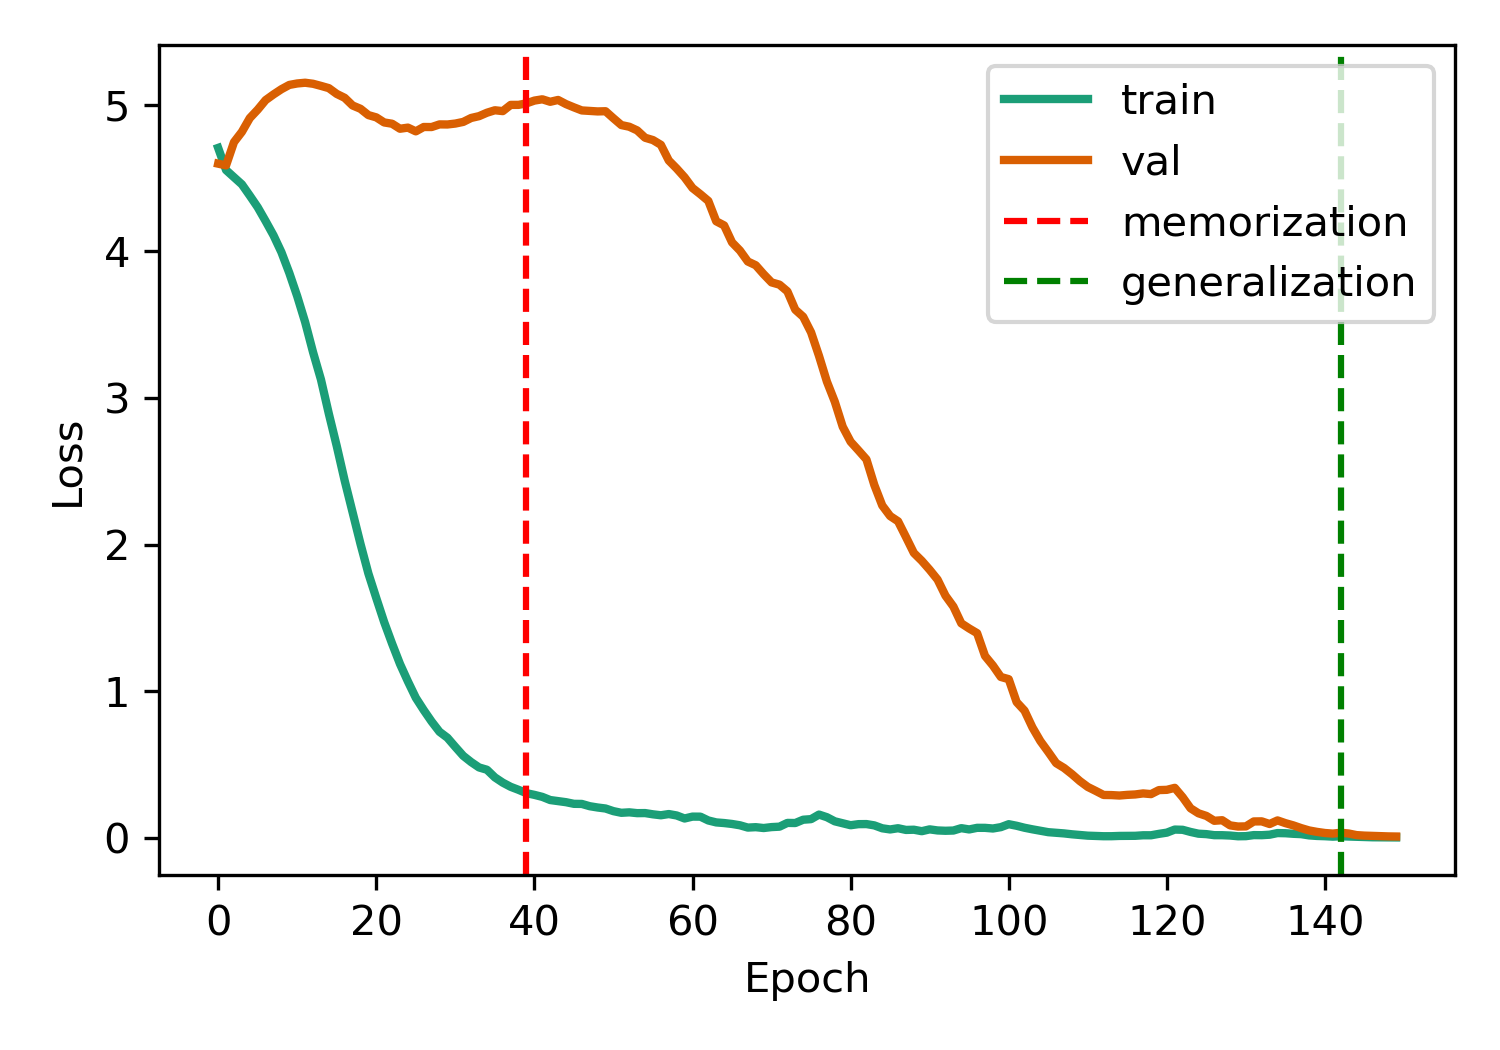
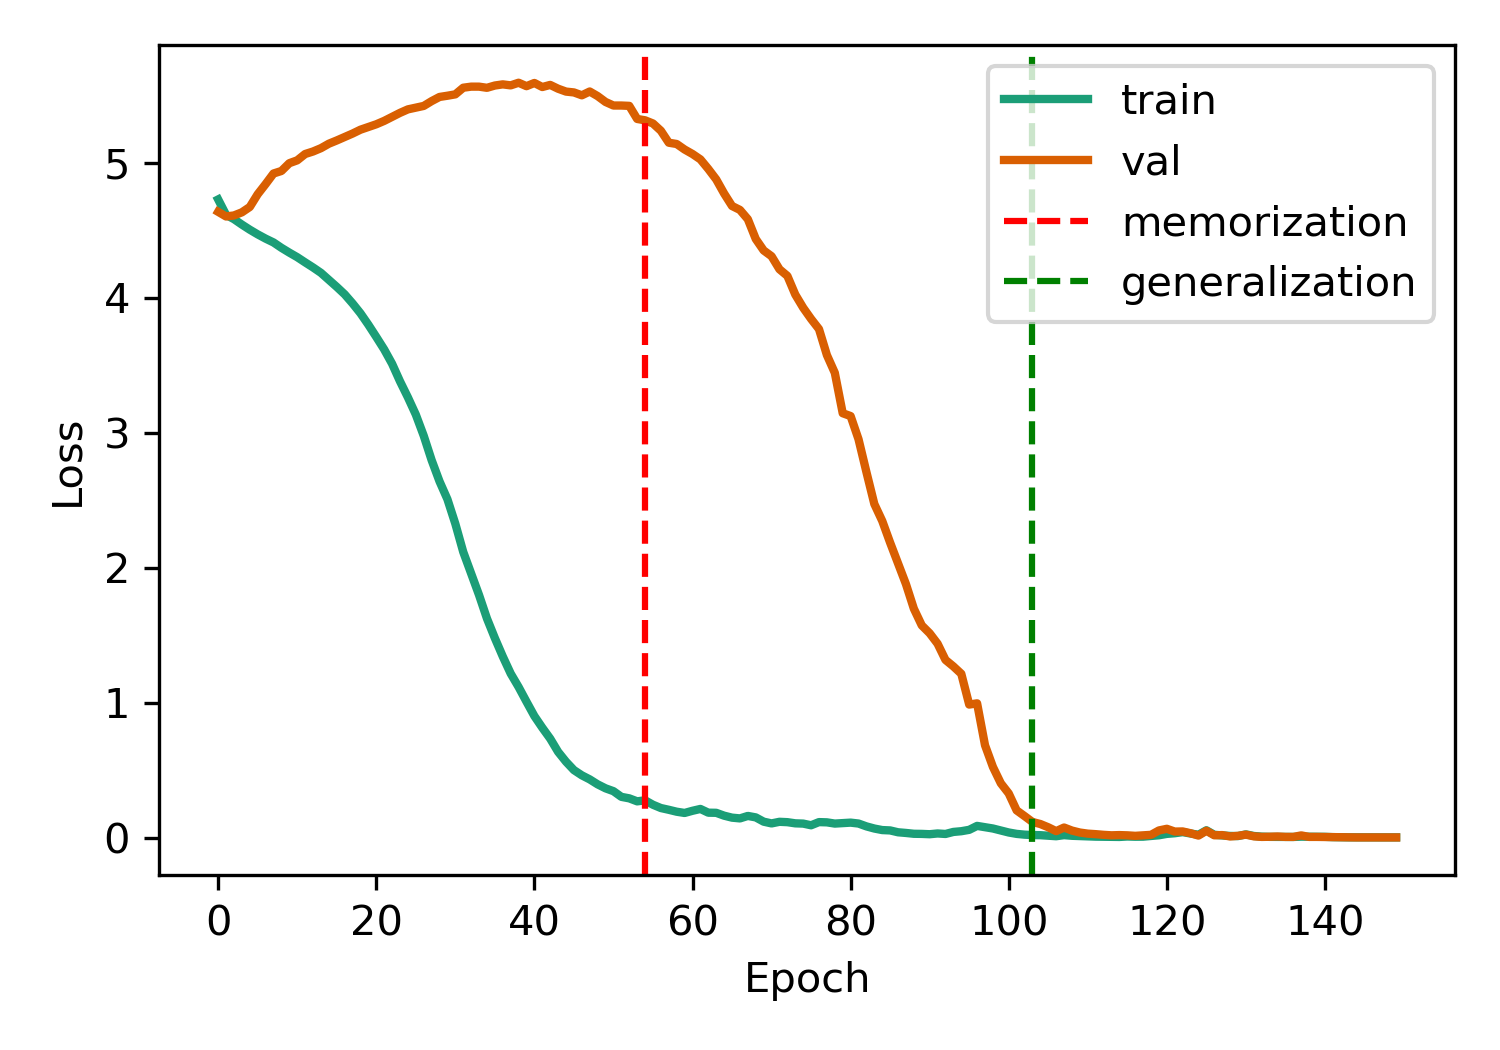
Some further changes

diff --git a/main.py b/main.py
@@ -195,9 +195,7 @@ class NeuralNetwork:
             postfix.update({'val_loss': f'{avg_val_loss:.3f}',
                             'val_acc': f'{avg_val_acc:.3f}'})
 
-            prev_train_acc = self.train_acc_trace[-2] if len(self.train_acc_trace) > 1 else 0.0
-            prev_val_acc = self.val_acc_trace[-2] if len(self.val_acc_trace) > 1 else 0.0
-            if padded_access(self.train_acc_trace, -5) > 0.95 and padded_access(self.val_acc_trace, -5) < 0.2 and padded_access(self.train_acc_trace, -6) < 0.95:
+            if avg_train_acc > 0.97 and avg_val_acc < 0.5 and padded_access(self.train_error_trace, -2) - padded_access(self.train_error_trace, -1) < 0.005 and self.memorization_epoch is None:
                 print(f"Memorization happened at epoch {epoch}!")
                 self.memorization_epoch = epoch
                 if self.memorization_hessian_eigenvalues is None:
@@ -217,7 +215,7 @@ class NeuralNetwork:
                         f"Negative Hessian eigenvalues among top {len(top)} at memorization: "
                         f"{self.memorization_hessian_negative_eigenvalues}"
                     )
-            if padded_access(self.train_acc_trace, -5) > 0.99 and padded_access(self.val_acc_trace, -5) > 0.99 and padded_access(self.val_acc_trace, -6) < 0.99:
+            if avg_train_acc > 0.97 and avg_val_acc > 0.97 and padded_access(self.train_error_trace, -2) - padded_access(self.train_error_trace, -1) < 0.005 and len(self.generalization_epochs) == 0:
                 print(f"Generalization happened at epoch {epoch}!")
                 self.generalization_epochs.append(epoch)
                 probe_size = min(256, train_data[0].shape[0])

diff --git a/README.md b/README.md
@@ -1,7 +1,10 @@
 # Grokking Modular Arithmetic (MLX)
 
 <p align="center">
-  <img src="media/grokking.png" alt="Grokking" width="50%">
+  <img src="media/grokking.png" alt="grokking" width="50%">
+</p>
+<p align="center">
+  <img src="media/grokking_loss.png" alt="grokking" width="50%">
 </p>
 
 _Grokking_: a phenomenon observed in neural nets, where after an initial phase of overfitting (or memorization), the model suddenly achieves perfect generalization, inspired by [Power et al. (2022)](https://arxiv.org/abs/2201.02177). We incorporate some modern Transformer tricks (e.g., RoPE, RMSNorm, SiLU, etc.) and achieve grokking in < 150 epochs on modular division when $p=97$ on 50% of the training data using a 2 layer, 1 head, 128 dim net.
